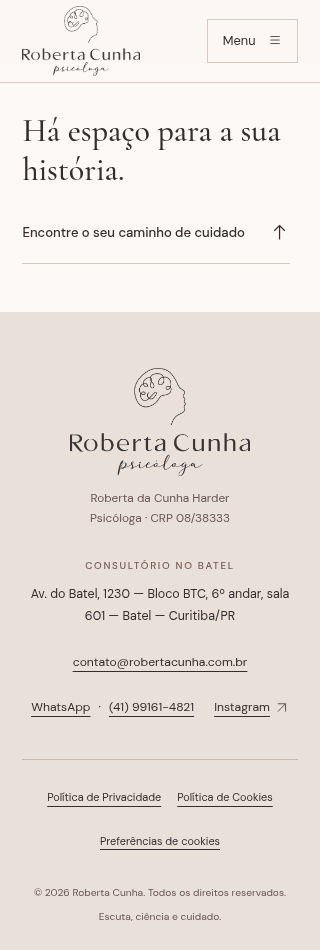
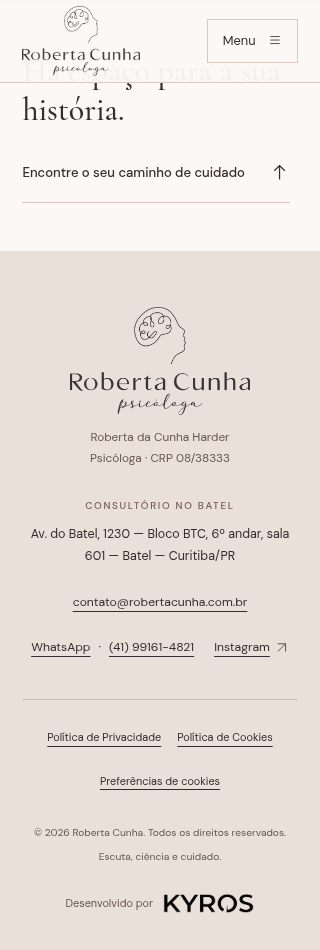
feat: add social sharing metadata and original Kyros footer credit

diff --git a/tests/site.spec.ts b/tests/site.spec.ts
@@ -1,3 +1,4 @@
+import sharp from 'sharp';
 import { test, expect } from '@playwright/test';
 import AxeBuilder from '@axe-core/playwright';
 
@@ -290,3 +291,56 @@ for (const width of [390, 1440]) {
     await expect(card).toHaveCSS('opacity', '1');
   });
 }
+
+test('metadados sociais únicos, URLs absolutas e imagem pública estática', async ({
+  page,
+  request,
+}) => {
+  await page.goto('/');
+  const title = 'Roberta Cunha | Psicologia e Neuropsicologia em Curitiba';
+  const description =
+    'Um espaço de escuta, acolhimento e cuidado. Psicoterapia e Avaliação Neuropsicológica para crianças, adolescentes e adultos. Atendimento presencial e online.';
+  const image = 'https://robertacunha.com.br/social/roberta-cunha-og-v1.png';
+  await expect(page).toHaveTitle(title);
+  const expected = [
+    ['property', 'og:title', title],
+    ['property', 'og:description', description],
+    ['property', 'og:url', 'https://robertacunha.com.br/'],
+    ['property', 'og:image', image],
+    ['property', 'og:image:width', '1200'],
+    ['property', 'og:image:height', '630'],
+    ['property', 'og:image:type', 'image/png'],
+    ['name', 'description', description],
+    ['name', 'twitter:card', 'summary_large_image'],
+    ['name', 'twitter:title', title],
+    ['name', 'twitter:description', description],
+    ['name', 'twitter:image', image],
+    ['name', 'twitter:url', 'https://robertacunha.com.br/'],
+  ];
+  for (const [attribute, name, content] of expected) {
+    const tag = page.locator(`meta[${attribute}="${name}"]`);
+    await expect(tag).toHaveCount(1);
+    await expect(tag).toHaveAttribute('content', content);
+  }
+  await expect(page.locator('link[rel="canonical"]')).toHaveCount(1);
+  await expect(page.locator('link[rel="canonical"]')).toHaveAttribute(
+    'href',
+    'https://robertacunha.com.br/',
+  );
+  await expect(page.locator('.footer-credit')).toHaveCount(1);
+  await expect(page.locator('.footer-credit')).toHaveAttribute(
+    'href',
+    'https://kyrosmarketing.com.br/',
+  );
+  await expect(page.locator('.footer-credit img')).toHaveAttribute(
+    'src',
+    '/brand/kyros-original.png',
+  );
+  const response = await request.get(new URL(image).pathname);
+  expect(response.status()).toBe(200);
+  expect(response.headers()['content-type']).toContain('image/png');
+  const metadata = await sharp(await response.body()).metadata();
+  expect(metadata.width).toBe(1200);
+  expect(metadata.height).toBe(630);
+  expect(metadata.format).toBe('png');
+});

diff --git a/src/data/site.ts b/src/data/site.ts
@@ -2,6 +2,27 @@ export const site = {
   // Primeira versão pública para revisão; liberar indexação somente após aprovação.
   reviewMode: true,
   name: 'Roberta Cunha',
+  seo: {
+    title: 'Roberta Cunha | Psicologia e Neuropsicologia em Curitiba',
+    description:
+      'Um espaço de escuta, acolhimento e cuidado. Psicoterapia e Avaliação Neuropsicológica para crianças, adolescentes e adultos. Atendimento presencial e online.',
+  },
+  agency: {
+    name: 'Kyros',
+    url: 'https://kyrosmarketing.com.br/',
+    // Arquivo original enviado pela agência, sem redesenho ou alteração de pixels.
+    logo: {
+      src: '/brand/kyros-original.png',
+      alt: 'Kyros',
+      width: 1254,
+      height: 1254,
+    } as null | {
+      src: string;
+      alt: string;
+      width: number;
+      height: number;
+    },
+  },
   fullName: 'Roberta da Cunha Harder',
   crp: '08/38333',
   url: 'https://robertacunha.com.br',
@@ -46,7 +67,12 @@ export const site = {
         '(max-width: 700px) calc(100vw - 55px), (max-width: 1350px) 44vw, 530px',
     },
     favicon: { src: '/brand/favicon.png', alt: '', width: 64, height: 64 },
-    social: null,
+    social: {
+      src: '/social/roberta-cunha-og-v1.png',
+      alt: 'Roberta Cunha — Psicologia e Neuropsicologia em Curitiba',
+      width: 1200,
+      height: 630,
+    },
   } as Record<
     'logo' | 'hero' | 'about' | 'favicon' | 'social',
     null | {

diff --git a/src/styles/global.css b/src/styles/global.css
@@ -1443,3 +1443,40 @@ summary > span {
     white-space: nowrap;
   }
 }
+
+.footer-credit {
+  display: flex;
+  align-items: center;
+  justify-content: center;
+  gap: 0.65rem;
+  width: fit-content;
+  max-width: 100%;
+  min-height: 44px;
+  margin: 1rem auto 0;
+  font-size: 0.68rem;
+  color: var(--muted);
+  text-decoration: none;
+}
+/* A marca original é quadrada com margens transparentes amplas.
+   A caixa acomoda apenas a área útil, sem alterar o arquivo ou cortar seus traços. */
+.footer-agency-logo {
+  position: relative;
+  display: block;
+  flex: 0 0 91px;
+  width: 91px;
+  height: 21px;
+  overflow: hidden;
+}
+.footer-credit img {
+  position: absolute;
+  display: block;
+  width: 125.4px;
+  height: 125.4px;
+  max-width: none;
+  left: -17.5px;
+  top: -54.6px;
+}
+.footer-credit:hover > span {
+  text-decoration: underline;
+  text-underline-offset: 4px;
+}

diff --git a/README.md b/README.md
@@ -48,7 +48,7 @@ As fotografias e a marca original foram recebidas em `Arquivo 2.zip`. Os cinco a
 
 Os caminhos, textos alternativos, dimensões, `srcSet`, `avifSrcSet` e `sizes` ficam em `site.assets`, em `src/data/site.ts`. `Portrait.astro` usa `<picture>`, AVIF preferencial com fallback WebP, prioridade de carregamento na hero e lazy loading em Sobre. O enquadramento usa `object-fit: cover`, com posição focal definida por seção no CSS. Os arquivos não recebem filtros ou alterações de identidade.
 
-A imagem dedicada de compartilhamento social permanece pendente; não há caminho fictício configurado. Fontes são distribuídas localmente via pacotes Fontsource; nenhuma chamada a Google Fonts.
+A imagem social de 1200 × 630 px está em `public/social/roberta-cunha-og-v1.png`, com a marca original sobre composição off-white/rosé e detalhes terracota. Para regenerar: `npm run generate:social`. A composição é determinística e apenas redimensiona/incorpora a logo original, sem redesenhá-la. Fontes são distribuídas localmente via pacotes Fontsource; nenhuma chamada a Google Fonts.
 
 ## Privacidade e integrações
 
@@ -75,3 +75,13 @@ Configuração prevista: build `npm run build`, diretório de saída `dist`, Nod
 A indexação está bloqueada por `site.reviewMode: true` e pelo cabeçalho `X-Robots-Tag: noindex` em `public/_headers`. Isso não restringe acesso: qualquer pessoa com o endereço pode visualizar. O `robots.txt` permite rastreamento para os buscadores conseguirem ler o `noindex`. Antes do lançamento aprovado, desative `reviewMode`, remova somente o cabeçalho `X-Robots-Tag` e valide a saída. Documentos legais continuam com `noindex` próprio.
 
 No Cloudflare Pages, selecione o repositório `KyrosMarketing/Roberta-Cunha`, branch `main`, build `npm run build`, saída `dist`, raiz em branco e variável `NODE_VERSION=24`. O primeiro endereço deve ser o `.pages.dev` fornecido pela Cloudflare; não conectar o domínio ou alterar DNS nesta etapa.
+
+## Compartilhamento social e assinatura da agência
+
+Título e descrição padrão estão em `site.seo`; o layout reutiliza os mesmos valores em title, description, Open Graph e Twitter Card. A canonical da landing é `https://robertacunha.com.br/`. A URL absoluta da imagem é `https://robertacunha.com.br/social/roberta-cunha-og-v1.png`, publicada como arquivo estático sem autenticação pelo projeto. Ao mudar a imagem futuramente, versione o nome do arquivo e atualize `site.assets.social` para reduzir cache de imagem.
+
+Confirme o HTTP 200 e `Content-Type: image/png` nesse endereço no domínio final depois do deploy. O domínio precisa apontar para esta versão; publicar somente no Pages não atualiza automaticamente outro servidor no domínio. Neste ambiente, a consulta pública ao domínio foi bloqueada pelo proxy com 403; a disponibilização foi validada no preview de produção local, sem confirmar a hospedagem pública.
+
+WhatsApp e outras plataformas podem guardar metadados e imagens antigos. Teste um novo compartilhamento após o deploy; um parâmetro de revisão na URL pode ajudar no teste, mas não garante renovação de cache. Cards já enviados podem permanecer com a aparência antiga. A canonical continua sem parâmetros. Não há como garantir atualização imediata de cache da plataforma.
+
+O crédito da Kyros está ativo com o PNG original em `public/brand/kyros-original.png`, copiado byte a byte do ZIP enviado. A assinatura “Desenvolvido por” com a logo aponta para `https://kyrosmarketing.com.br/`. Os dados ficam em `site.agency`. O arquivo é quadrado e possui margens transparentes amplas; a caixa CSS apresenta a área útil da marca sem alterar o arquivo, recolorir, deformar ou cortar seus traços. Ao substituir a logo futuramente, confira essas margens e os ajustes da caixa.

diff --git a/docs/TESTES.md b/docs/TESTES.md
@@ -99,3 +99,13 @@ Os testes de rolagem em 390 e 1440 px registram eventos reais de transição, pe
 As verificações automatizadas não equivalem a medições em aparelhos físicos nem garantem 60 FPS em qualquer dispositivo. Não foi executado novo Lighthouse nesta revisão.
 
 Resultado final desta revisão: **14 testes aprovados em 22,7 s**, build estático, tipos e formatação aprovados. Sem violações Axe nos estados estáveis auditados e sem erros de console/rede nas verificações da landing page.
+
+## Open Graph, Twitter Card e crédito Kyros
+
+Título e descrição padrão de SEO centralizados em `site.seo`, com os textos solicitados e reutilização em Open Graph/Twitter Card. Canonical da landing e URLs sociais absolutas em `https://robertacunha.com.br/`. Metadados de imagem incluem tipo PNG, dimensões 1200 × 630 e texto alternativo. A imagem versionada está em `public/social/roberta-cunha-og-v1.png`, com composição determinística baseada na logo original, sem redesenho. Regeneração: `npm run generate:social`.
+
+Logo original da Kyros recebida em `LOGO KYROS PRETA (SEM FUNDO).png.zip`; PNG de 1254 × 1254 preservado byte a byte em `public/brand/kyros-original.png`. A caixa de exibição compensa apenas as margens transparentes, sem recortar os traços nem distorcer a imagem. Assinatura conferida em 320, 390, 768 e 1440 px e vinculada a `https://kyrosmarketing.com.br/`.
+
+Resultado final: **15 testes aprovados em 22,8 s**, checagem de tipos, build e formatação aprovados. O teste social verifica title, description, canonical, valores únicos de Open Graph/Twitter Card, URLs absolutas e entrega HTTP 200 local do PNG com tipo e dimensões corretos. Também verifica o link e a logo do crédito. Imagem social e rodapé inspecionados visualmente; nenhum texto visível da landing foi alterado além da assinatura autorizada.
+
+A consulta externa à imagem no domínio final retornou 403 do proxy do ambiente. Portanto, o acesso público e a prévia real em WhatsApp não foram confirmados nesta sessão. O arquivo está incluído na saída estática do build; confirmar sua resposta no domínio final após o deploy. O domínio deve servir esta versão para disponibilizar a URL absoluta configurada. O WhatsApp pode manter cards/metadados antigos em cache, inclusive depois de o arquivo novo estar acessível. Os relatórios Lighthouse anteriores continuam históricos; não foi executada nova auditoria Lighthouse nesta revisão.

diff --git a/docs/DESIGN.md b/docs/DESIGN.md
@@ -26,7 +26,7 @@ Menu mobile com estado expandido, Escape e gestão de foco. FAQ em `details/summ
 
 Fotografias reais e marca original fornecidas em `Arquivo 2.zip`, incorporadas em 5 de novembro de 2026. Retrato no sofá na hero e retrato próximo em Sobre, com versões responsivas AVIF/WebP. Logo escuro original no cabeçalho e rodapé, sem recoloração, recorte ou distorção; a versão branca é preservada para uso futuro. Favicon derivado da submarca original apenas por redimensionamento com margem transparente.
 
-A hero usa enquadramento em `58% 28%` e o retrato de Sobre em `50% 28%`. A exibição foi revisada em desktop e mobile. Nenhum rosto ou marca foi recriado por IA. O arquivo social dedicado e a aprovação final de uso/recortes ainda precisam ser confirmados.
+A hero usa enquadramento em `58% 28%` e o retrato de Sobre em `50% 28%`. A exibição foi revisada em desktop e mobile. Nenhum rosto ou marca foi recriado por IA. A aprovação final de uso/recortes ainda precisa ser confirmada. A imagem social dedicada de 1200 × 630 px foi composta com a marca original, fundo off-white, moldura rosé e linha terracota.
 
 ## Movimento
 
@@ -39,3 +39,7 @@ Cada bloco é desobservado após a primeira entrada; uma marcação persistente 
 A identificação profissional aparece na legenda sob a foto, alinhada à esquerda, com “Escuta, ciência e cuidado” à direita, admitindo quebra de linha em telas estreitas. A linha anterior sob os botões foi removida.
 
 Rodapé composto por identidade, endereço e contatos agrupados. E-mail, WhatsApp, ligação telefônica e Instagram continuam acessíveis. Privacidade, cookies e preferências compartilham uma faixa horizontal com quebra natural. No mobile, logotipo, textos e grupos ficam centralizados, com áreas de toque de pelo menos 44 px.
+
+## Crédito da agência
+
+Assinatura discreta e centralizada ao final do rodapé, com texto “Desenvolvido por” e a logo preta original da Kyros, sem alterações no PNG. A caixa de exibição compensa apenas a margem transparente do arquivo quadrado, mantendo a proporção e todos os traços. O conjunto é um único link externo para `https://kyrosmarketing.com.br/`, com nome acessível e foco visível.

diff --git a/docs/PUBLICACAO.md b/docs/PUBLICACAO.md
@@ -7,7 +7,9 @@
 - [x] Dois retratos reais recebidos em 853 × 1280 px e incorporados.
 - [ ] Aprovar enquadramentos e textos alternativos.
 - [x] Versões responsivas AVIF e WebP dos dois retratos.
-- [ ] Imagem Open Graph dedicada e autorizada.
+- [x] Imagem Open Graph de 1200 × 630 px com a logo original e metadados solicitados.
+- [ ] Confirmar resposta pública da imagem no domínio após deploy e revisar um novo compartilhamento.
+- [x] Logo original da Kyros recebida, preservada e aplicada à assinatura clicável no rodapé.
 - [ ] Conferir nome, CRP 08/38333, formação e nome oficial da instituição/especialização.
 - [ ] Validar a forma de apresentar qualificação/especialidade e referência à TCC.
 - [ ] Confirmar públicos, modalidades por serviço e condições de atendimento online.
